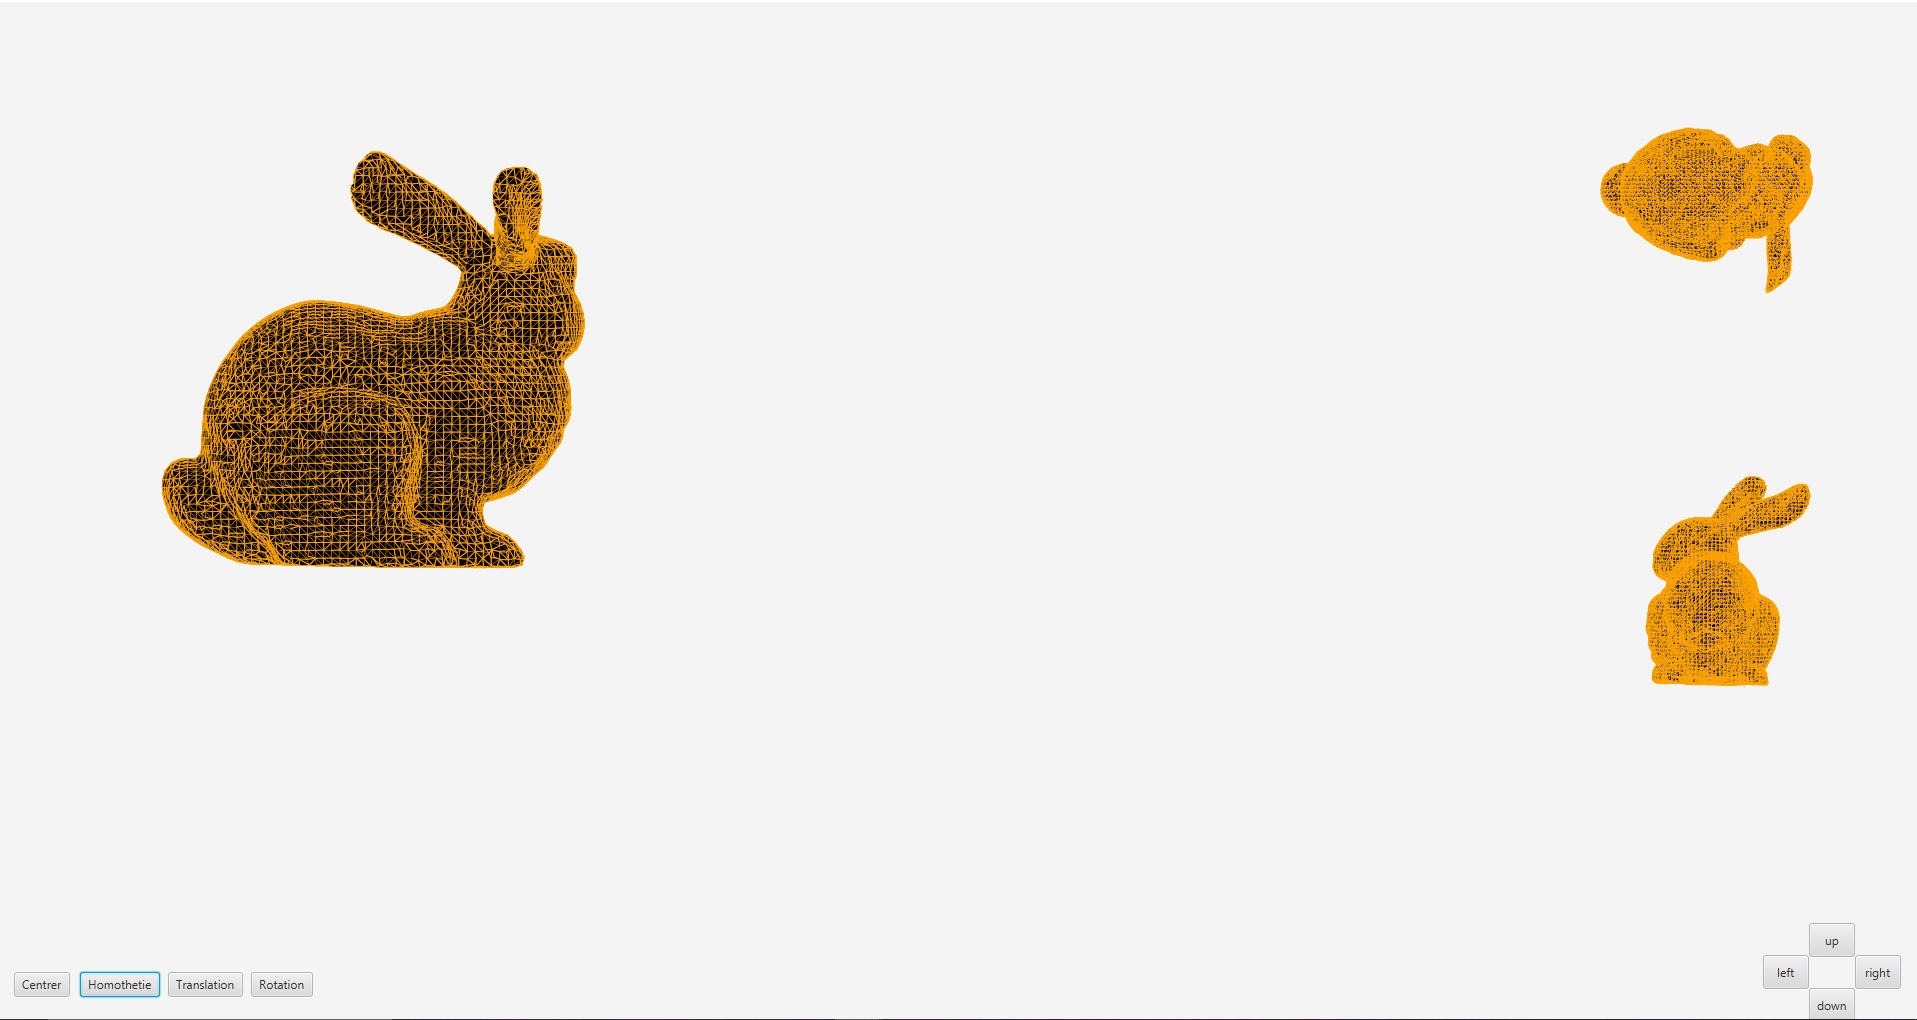
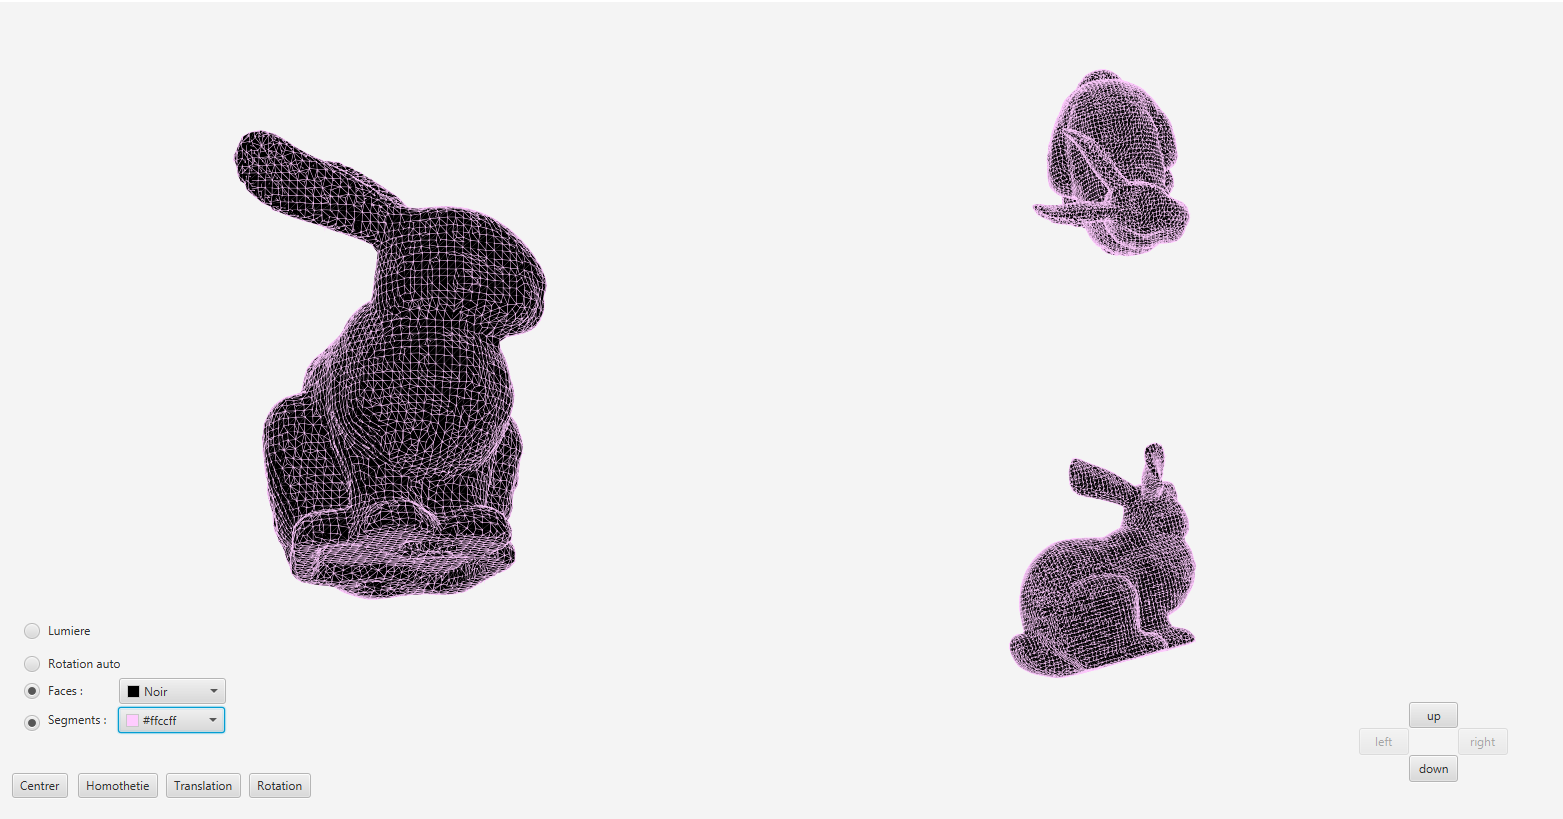
update math project

diff --git a/Modelisation.html b/Modelisation.html
@@ -67,13 +67,19 @@
                                 <div id="Modelisation" class="carousel slide" data-bs-ride="carousel">
                                     <div class="carousel-inner">
                                         <div class="carousel-item active">
-                                            <img src="Modelisation/car.png" style="width:100%;border-radius:10px;max-height: 245px" class="d-block w-100" alt="Car">
+                                            <img src="Modelisation/shoeboth.PNG" style="width:100%;border-radius:10px;max-height: 240px" class="d-block w-100" alt="Shoe">
                                         </div>
                                         <div class="carousel-item">
-                                            <img src="Modelisation/bunny.PNG" style="width:100%;border-radius:10px;max-height: 245px" class="d-block w-100" alt="Bunny">
+                                            <img src="Modelisation/shoeseg.PNG" style="width:100%;border-radius:10px;max-height: 240px" class="d-block w-100" alt="Shoe">
                                         </div>
                                         <div class="carousel-item">
-                                            <img src="Modelisation/Shoe.PNG" style="width:100%;border-radius:10px;max-height: 245px" class="d-block w-100" alt="Shoe">
+                                            <img src="Modelisation/bunny.PNG" style="width:100%;border-radius:10px;max-height: 240px" class="d-block w-100" alt="Bunny">
+                                        </div>
+                                        <div class="carousel-item">
+                                            <img src="Modelisation/plane.PNG" style="width:100%;border-radius:10px;max-height: 240px" class="d-block w-100" alt="Airplane">
+                                        </div>
+                                        <div class="carousel-item">
+                                            <img src="Modelisation/menu.png" style="width:100%;border-radius:10px;max-height: 240px" class="d-block w-100" alt="Airplane">
                                         </div>
                                     </div>
                                     <button class="carousel-control-prev" type="button" data-bs-target="#Modelisation" data-bs-slide="prev" style="filter: invert(100%);">
@@ -88,7 +94,9 @@
                             </div>
                             <div class="col-md-5">
                                 <h4 class="card-title">Projet de Modelisation</h4>
-                                <p class="card-text">Ce projet consitait en l'affichage de fichiers ply, avec la possibilité de faire des rotations, des translations et des homotheties</p>
+                                <p class="card-text">L'objectif de ce projet était de réaliser une application permettant l'affichage de fichiers Ply tout en permettant de faire des rotations, des translations et des homotheties sur ce dernier à l'aide de boutons placés sur l'interface ou de la souris.
+                                  Il est aussi possible d'effectuer une rotation automatique et de centrer le modèle
+                                </p>
                             </div>
                         </div>
                     </div>
